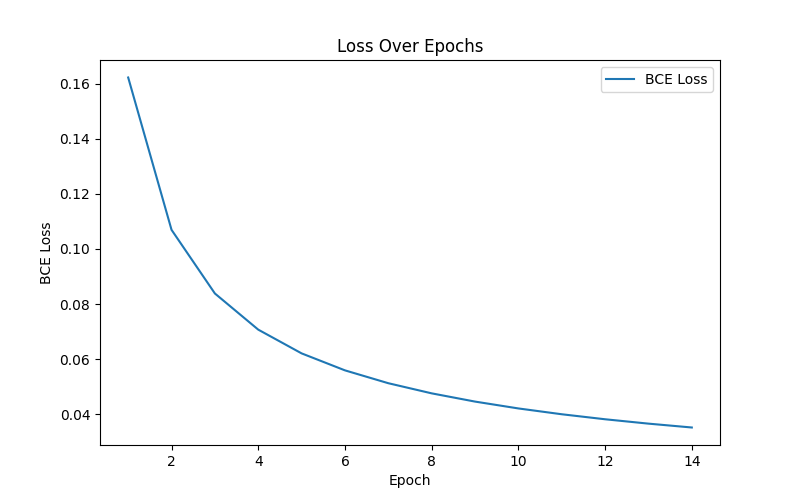
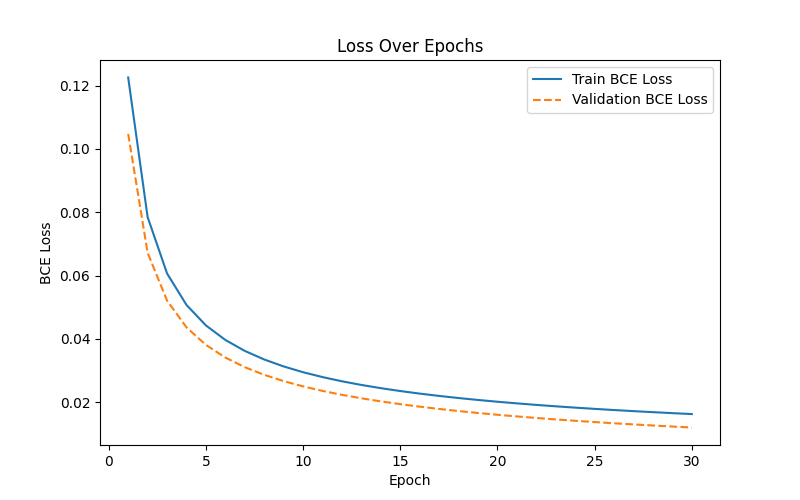
Finished, Just need to make a few changes so that I can make my graphs overlap properly

diff --git a/Sigmoid_Neuron.py b/Sigmoid_Neuron.py
@@ -38,32 +38,26 @@ def get_data_list(data, indexes):
         lst.append(data[i])
     return lst
 
-def train_val_test_split(features, labels, val_ratio, test_ratio, seed_value):
+def train_test_split(features, labels, seed_value):
     index = []
     length = len(features)
     for i in range(length):
         index.append(i)
-    
+
     seed = random.Random(seed_value)
     seed.shuffle(index)
-    
-    test_cut = int(length * (1 - test_ratio))
-    val_cut = int(test_cut - (length * val_ratio))
-    
-    train_index = index[:val_cut]
-    val_index = index[val_cut:test_cut]
-    test_index = index[test_cut:]
-    
+    train_cut = int(0.7*length)
+    validation_cut = int(0.9*length)
+    train_index = index[:train_cut]
+    test_index = index[validation_cut:]
+    validation_index = index[train_cut:validation_cut]
     features_train = get_data_list(features, train_index)
     labels_train = get_data_list(labels, train_index)
-    
-    features_val = get_data_list(features, val_index)
-    labels_val = get_data_list(labels, val_index)
-    
     features_test = get_data_list(features, test_index)
     labels_test = get_data_list(labels, test_index)
-    
-    return features_train, labels_train, features_val, labels_val, features_test, labels_test
+    features_val = get_data_list(features, validation_index)
+    labels_val = get_data_list(labels, validation_index)
+    return features_train, labels_train, features_test, labels_test, features_val, labels_val
 
 def activation_function(z):
     prediction = 1/(1 + np.exp(-z))
@@ -90,7 +84,6 @@ def calculate_validation_loss(features, labels, weights, bias):
     loss_list = []
     for k in range(len(features)):
         pred = predict_one_vector(features[k], weights, bias)
-        # We keep your awesome bumper fix here so it doesn't blank out!
         pred = max(min(pred, 0.999999), 0.000001) 
         
         if labels[k] == 1:
@@ -99,66 +92,82 @@ def calculate_validation_loss(features, labels, weights, bias):
             loss_list.append(-1 * np.log(1 - pred))
             
     return sum(loss_list) / len(loss_list)
-
 def sigmoid(path, learning_rate, epochs, label):
     x, y, feature_names, label_name = load_csv(path)
     folder_name = os.path.splitext(os.path.basename(path))[0]
     os.makedirs(folder_name, exist_ok=True)
-    x_train, y_train, x_val, y_val, x_test, y_test = train_val_test_split(x, y, val_ratio=0.2, test_ratio=0.3, seed_value=75)
+    x_train, y_train, x_val, y_val, x_test, y_test = train_test_split(x, y, seed_value=75)
 
-    #Beginning values for weights and bias
     num_features = len(x_train[0])
     weights = set_up_weights(num_features)
     bias = 0.0
+    
     weight_history = []
     loss_history = []
+    val_loss_history = [] # Tracking for the orange line
     max_weight_change_history = []  
 
     for epoch in range(epochs):
         weightChangeList = []
         lossList = []
+        
         for i in range(len(x_train)):
             weightChangeList.append([])
             features_row = x_train[i]
             true_label = y_train[i]
             pred_label = predict_one_vector(features_row, weights, bias)
-            # Update each weight
+            
             for j in range(num_features):
                 change_in_weights = learning_rate * (pred_label - true_label) * features_row[j]
                 weightChangeList[i].append(abs(change_in_weights))
                 weights[j] = weights[j] - change_in_weights
                 
-            # Update bias
             change_in_bias = learning_rate * (pred_label - true_label)
             weightChangeList[i].append(abs(change_in_bias))
             bias -= change_in_bias
 
             weight_history.append((weights.copy(), bias))
+            
         for k in range(len(x_train)):
             features_row = x_train[k]
             true_label = y_train[k]
             pred_label = predict_one_vector(features_row, weights, bias)
             
-            # This is the new line that fixes your blank graph!
             pred_label = max(min(pred_label, 0.999999), 0.000001)
             
             if(true_label == 1):
-                error = -1 * np.log(pred_label)
+                # The tiny + 1e-15 prevents a 'Log of Zero' error from breaking the whole thing.
+                error = -1 * np.log(pred_label + 1e-15)
                 lossList.append(error)
             elif(true_label == 0):
-                error = -1 * np.log(1 - pred_label)
+                error = -1 * np.log(1 - pred_label + 1e-15)
                 lossList.append(error)
 
-        # Compute epoch-level summaries for plotting
+        # Compute training loss for blue line
         epoch_bce = sum(lossList) / len(lossList)
         loss_history.append(epoch_bce)
+        
+        # Compute validation loss for orange line
+        val_loss = calculate_validation_loss(x_val, y_val, weights, bias)
+        val_loss_history.append(val_loss)
+        
         all_changes = []
         for change_row in weightChangeList:
             for change_value in change_row:
                 all_changes.append(change_value)
-        max_weight_change_history.append(max(all_changes))
+                
+        current_max_change = max(all_changes)
+        max_weight_change_history.append(current_max_change)
 
-    show_graph_menu(x_train, y_train, weight_history, loss_history, max_weight_change_history, num_features, folder_name)
+        # --- THE EARLY STOPPING BRAKES ---
+        if current_max_change < 0.001: # This is the early stopping rate (threshold)
+            print(f"\n--- Early stopping triggered at Epoch {epoch+1}! ---")
+            print("Reason: Reached local minimum (weights stopped changing).")
+            break 
+        # ---------------------------------
+
+    # Passing all 8 arguments correctly!
+    show_graph_menu(x_train, y_train, weight_history, loss_history, val_loss_history, max_weight_change_history, num_features, folder_name)
 
 def update(frame, history, ax, line):
         weights, bias = history[frame]
@@ -185,14 +194,11 @@ def animate_decision_boundary(X, y, history, output_folder):
     y_min = features[:, 1].min() - 1
     y_max = features[:, 1].max() + 1
 
-    # Separate class 0 and class 1 points
     is_Zero = [v == 0 for v in labels]
     is_One = [v == 1 for v in labels]
 
-    # Sample every 10th frame
     sampled_history = history[::10]
 
-    # Build one frame per entry in sampled history
     frames = []
     for i, (weights, bias) in enumerate(sampled_history):
         w1, w2 = weights
@@ -221,7 +227,6 @@ def animate_decision_boundary(X, y, history, output_folder):
             name=str(i)
         ))
 
-    # Initial frame
     w1, w2 = sampled_history[0][0]
     bias0 = sampled_history[0][1]
     if w2 != 0:
@@ -274,9 +279,7 @@ def plot_loss_over_epochs(train_loss, val_loss, output_folder):
     epochs = range(1, len(train_loss) + 1)
     
     plt.figure(figsize=(8, 5))
-    # Draw the solid blue Train line
     plt.plot(epochs, train_loss, label="Train BCE Loss", color="tab:blue")
-    # Draw the dashed orange Validation line
     plt.plot(epochs, val_loss, label="Validation BCE Loss", color="tab:orange", linestyle="--")
     
     plt.xlabel("Epoch")
@@ -286,6 +289,19 @@ def plot_loss_over_epochs(train_loss, val_loss, output_folder):
     plt.savefig(os.path.join(output_folder, 'loss.png'))
     plt.close()
     print("Saved loss.png — open it in the file explorer to view.")
+
+def plot_weight_change_over_epochs(max_weight_change_history, output_folder):
+    epochs = range(1, len(max_weight_change_history) + 1)
+
+    plt.figure(figsize=(8, 5))
+    plt.plot(epochs, max_weight_change_history, label="Max Weight Change")
+    plt.xlabel("Epoch")
+    plt.ylabel("Max Absolute Weight Change")
+    plt.title("Weight Change Over Epochs")
+    plt.legend()
+    plt.savefig(os.path.join(output_folder, 'weight_change.png'))
+    plt.close()
+    print("Saved weight_change.png — open it in the file explorer to view.")
 
 def show_graph_menu(x_train, y_train, weight_history, loss_history, val_loss_history, max_weight_change_history, num_features, output_folder):
     print("\n--- Graph Selection ---")
@@ -303,7 +319,6 @@ def show_graph_menu(x_train, y_train, weight_history, loss_history, val_loss_his
             print("Decision boundary only available for 2 features.")
         show_graph_menu(x_train, y_train, weight_history, loss_history, val_loss_history, max_weight_change_history, num_features, output_folder)
     elif choice == "2":
-        # Pass BOTH lists to the upgraded plotting function
         plot_loss_over_epochs(loss_history, val_loss_history, output_folder)
         show_graph_menu(x_train, y_train, weight_history, loss_history, val_loss_history, max_weight_change_history, num_features, output_folder)
     elif choice == "3":
@@ -314,39 +329,6 @@ def show_graph_menu(x_train, y_train, weight_history, loss_history, val_loss_his
     else:
         print("Invalid choice. Please enter 1, 2, 3, or 4.")
         show_graph_menu(x_train, y_train, weight_history, loss_history, val_loss_history, max_weight_change_history, num_features, output_folder)
-
-def plot_weight_change_over_epochs(max_weight_change_history, output_folder):
-    epochs = range(1, len(max_weight_change_history) + 1)
-
-    plt.figure(figsize=(8, 5))
-    plt.plot(epochs, max_weight_change_history, label="Max Weight Change")
-    plt.xlabel("Epoch")
-    plt.ylabel("Max Absolute Weight Change")
-    plt.title("Weight Change Over Epochs")
-    plt.legend()
-    plt.savefig(os.path.join(output_folder, 'weight_change.png'))
-    plt.close()
-    print("Saved weight_change.png — open it in the file explorer to view.")
-
-    choice = input("\nEnter the number of the graph you want to see: ").strip()
-
-    if choice == "1":
-        if num_features == 2:
-            animate_decision_boundary(x_train, y_train, weight_history, output_folder)
-        else:
-            print("Decision boundary only available for 2 features.")
-        show_graph_menu(x_train, y_train, weight_history, loss_history, max_weight_change_history, num_features, output_folder)
-    elif choice == "2":
-        plot_loss_over_epochs(loss_history, output_folder)
-        show_graph_menu(x_train, y_train, weight_history, loss_history, max_weight_change_history, num_features, output_folder)
-    elif choice == "3":
-        plot_weight_change_over_epochs(max_weight_change_history, output_folder)
-        show_graph_menu(x_train, y_train, weight_history, loss_history, max_weight_change_history, num_features, output_folder)
-    elif choice == "4":
-        main()
-    else:
-        print("Invalid choice. Please enter 1, 2, 3, or 4.")
-        show_graph_menu(x_train, y_train, weight_history, loss_history, max_weight_change_history, num_features, output_folder)
 
 def pickPath():
     print("Please select a dataset:")
@@ -381,8 +363,16 @@ def main():
     path = pickPath()
     if(path != "7"):
         learning_rate = 0.1  # Update with your desired learning rate
-        epochs = 14 # Update with your desired number of epochs
+        epochs = 30 # Update with your desired number of epochs
 
         sigmoid(path, learning_rate, epochs, label="label")
     
 main()
+
+# How do I determine what my early stopping rate is?
+# In this scenario?
+# In simple language, the early stopping rate is a threshold that helps us decide when to stop training our model. We can set it based on how much the weights are changing during training. If the weights are changing very little (below a certain threshold), it might mean that we've reached a point where the model isn't improving much anymore, and we can stop training to save time and resources.
+# Which line of code determines the early stopping rate in this file?
+# The line of code that determines the early stopping rate in this file is:
+# if current_max_change < 0.001:
+# Here, 0.001 is the early stopping rate. If the maximum change in weights is less than 0.001, the training will stop early, indicating that the model has likely reached a local minimum and further training may not yield significant improvements.

diff --git a/tempCodeRunnerFile.py b/tempCodeRunnerFile.py
@@ -1,0 +1,1 @@
+train_val_
